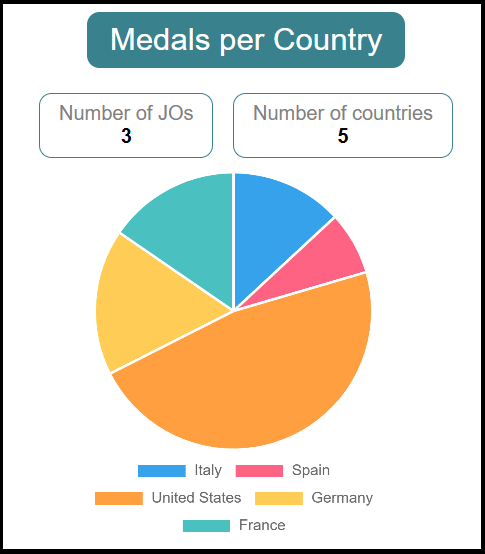
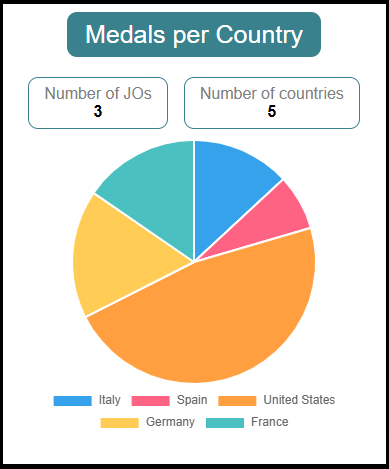
update readme. imrove pîe char interaction

diff --git a/src/app/pages/home/home.component.ts b/src/app/pages/home/home.component.ts
@@ -12,21 +12,19 @@ import { DataForPieChart } from 'src/app/core/models/Chart.model';
 })
 
 export class HomeComponent implements OnInit, OnDestroy {
-  consoleIsEnabled:boolean=false;
   public olympics$!: Observable<Olympic[]>;
   public olympicData!: Olympic[];
   public numberOfJOs:number=0;
   public numberOfCountries:number=0;
   public sliceIndexSelected=-1;
   public dataForCountriesPieChart!:DataForPieChart;
-  private router = inject(Router);
   private olympicSub!: Subscription;
   public serverFailed:boolean=false;
   public serverError:string="";
   public serverMessageError:String=""; 
   private errorSub!: Subscription;
 
-  constructor(private olympicService: OlympicService) {}
+  constructor(private olympicService: OlympicService, private router: Router) {}
 
   ngOnInit(): void {
     this.olympics$ = this.olympicService.getOlympics();
@@ -52,12 +50,6 @@ export class HomeComponent implements OnInit, OnDestroy {
           this.dataForCountriesPieChart=this.getDataForCountriesPieChart();
           this.numberOfJOs=this.getNumberOfJOs();
           this.numberOfCountries=this.olympicData.length;
-          if (this.consoleIsEnabled)
-          {
-            console.log("Number of olympic countries into the json file : " + this.olympicData.length);   
-            console.log("data[0] : " + this.dataForCountriesPieChart.data[0]);   
-            console.log("dataForCountriesPieChart : " + this.dataForCountriesPieChart);   
-          }
        }
 
     },);
@@ -74,16 +66,7 @@ export class HomeComponent implements OnInit, OnDestroy {
     this.sliceIndexSelected=countryIndex;
     if (countryIndex!=-1)
     {
-      if (this.consoleIsEnabled){
-        console.log("selected country : " + this.dataForCountriesPieChart.labels[countryIndex]);
-      }
       this.router.navigate(['/details'+'/'+  this.dataForCountriesPieChart.labels[countryIndex]]);
-    }
-    else
-    {
-      if (this.consoleIsEnabled){
-        console.log("Bad country index :"+ countryIndex);
-      }
     }
   }
 

diff --git a/src/app/components/pie-chart/pie-chart.component.ts b/src/app/components/pie-chart/pie-chart.component.ts
@@ -16,7 +16,6 @@ Chart.register(...registerables );
 })
 
 export class PieChartComponent implements OnInit, OnChanges{
-  consoleIsEnabled:boolean=false;
   @Input() dataForPieChart:DataForPieChart={labels:[],data:[]};  
   @Output() chartClicked=new EventEmitter<number>(); 
   sliceClickedIndex:number=-1;
@@ -31,10 +30,6 @@ export class PieChartComponent implements OnInit, OnChanges{
   ngOnChanges(changes: SimpleChanges) {
     if (changes['dataForPieChart']) {
       this.pieChartCreation();
-      if (this.consoleIsEnabled)
-      {
-        console.log('Value changed from ', changes['dataForPieChart'].previousValue, ' to ', changes['dataForPieChart'].currentValue);
-      }
     }
   }
 
@@ -52,21 +47,14 @@ export class PieChartComponent implements OnInit, OnChanges{
 
     this.pieChartOptions= {
       responsive: true,
+      maintainAspectRatio: false,
       onClick: (evt, activeEls, chart) => {
         if (activeEls.length>0){
           this.sliceClickedIndex=activeEls[0].index;
-          if (this.consoleIsEnabled)
-          {
-            console.log("Clicked index :" + activeEls[0].index + " | Label : " +this.dataForPieChart.labels[activeEls[0].index]);
-          }
         }
         else
         {
           this.sliceClickedIndex=-1;
-          if (this.consoleIsEnabled)
-          {          
-            console.log("Clicked out");
-          }
         }
         this.chartClicked.emit(this.sliceClickedIndex);
       },
@@ -77,10 +65,5 @@ export class PieChartComponent implements OnInit, OnChanges{
         },
       }    
     };   
-    if (this.consoleIsEnabled)
-    {            
-      console.log("pie data :"+this.dataForPieChart.data);
-      console.log("pie labels :"+this.dataForPieChart.labels);
-    }
   }
 }

diff --git a/src/app/components/line-chart/line-chart.component.ts b/src/app/components/line-chart/line-chart.component.ts
@@ -15,7 +15,6 @@ Chart.register(...registerables );
 })
 
 export class LineChartComponent implements OnInit, OnChanges{
-  consoleIsEnabled:boolean=false;
   @Input() dataForLineChart:DataForLineChart ={labels:[],data:[],xAxisLabel:""};
   public lineChartData!: ChartConfiguration<'line'>['data']; 
   public lineChartOptions!: ChartOptions<'line'>;
@@ -27,10 +26,6 @@ export class LineChartComponent implements OnInit, OnChanges{
   ngOnChanges(changes: SimpleChanges) {
     if (changes['dataForLineChart']) {
       this.lineChartCreation();
-      if (this.consoleIsEnabled)
-      {      
-        console.log('Value changed from ', changes['dataForLineChart'].previousValue, ' to ', changes['dataForLineChart'].currentValue);
-      }
     }
   }
 

diff --git a/src/app/pages/details/details.component.ts b/src/app/pages/details/details.component.ts
@@ -14,7 +14,6 @@ import { DataForLineChart } from 'src/app/core/models/Chart.model';
 })
 
 export class DetailsComponent implements OnInit, OnDestroy {
-  consoleIsEnabled:boolean=false;
   public olympics$!: Observable<Olympic[]>; 
   public olympicData!: Olympic[];
   private olympicCountryData:Olympic|undefined= undefined;

diff --git a/src/app/pages/home/home.component.scss b/src/app/pages/home/home.component.scss
@@ -6,14 +6,10 @@
 }
 
 .graph-wrapper {
-    margin: auto;
-    margin-left: -10px;
-    width: 800px;
+    width: 700px;
     max-width: 100%;
-    height: auto;
-    @media screen and (min-width: 576px) {
-        margin-left: auto;
-    }
+    height: 300px;
+    margin: auto;
 }
 
 .labelAndTextError {

diff --git a/src/app/components/pie-chart/pie-chart.component.scss b/src/app/components/pie-chart/pie-chart.component.scss
@@ -1,4 +1,5 @@
 canvas{
-    margin: 0 auto;
-    resize: both;
+    width: 700px;
+    max-width: 100%;
+    height: 300px;    
 }
